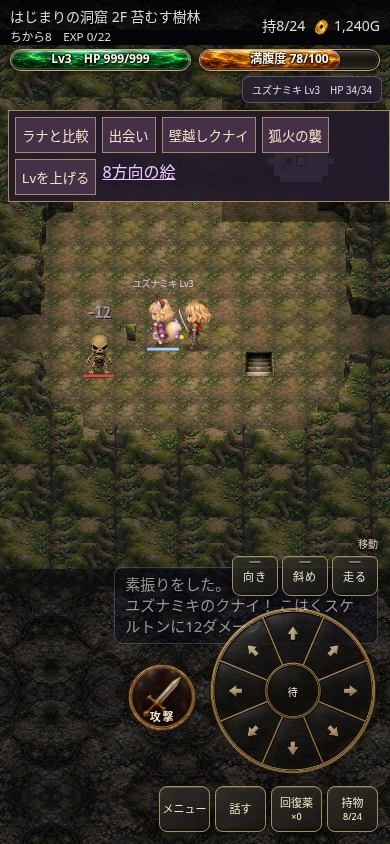
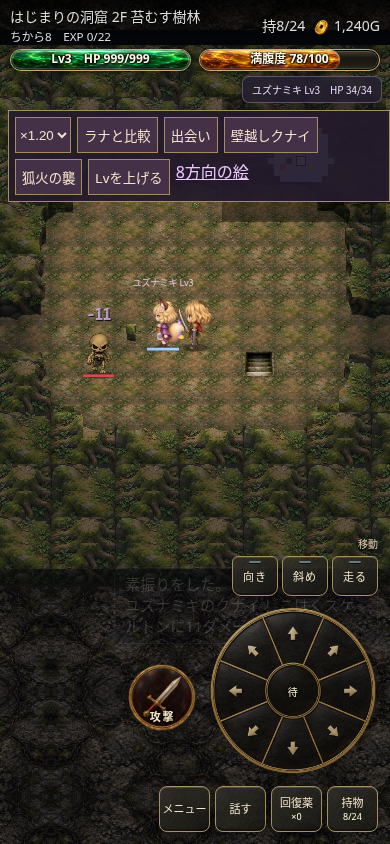
Register companion feet per pose and tune common scale to 1.20

diff --git a/fushigi-allies-v1/preview.html b/fushigi-allies-v1/preview.html
@@ -1,3 +1,3 @@
 <!doctype html><html lang="ja"><head><meta charset="utf-8"><meta name="viewport" content="width=device-width,initial-scale=1"><title>ユズナミキ — 助っ人</title><style>*{box-sizing:border-box}body{margin:0;color:#eee1d5;background:#18171e;font:15px/1.7 system-ui}main{max-width:1000px;margin:auto;padding:22px}h1{color:#e6c3ee;font-size:25px}a{color:#e7c68e}.lead{display:flex;gap:24px;align-items:center;flex-wrap:wrap}.lead img{width:210px;max-height:280px;object-fit:contain}button,select{background:#44334e;color:#fff0db;border:1px solid #ab8caf;padding:10px;font:inherit;border-radius:7px}#views{display:grid;grid-template-columns:repeat(4,minmax(0,1fr));gap:10px;margin-top:20px}figure{margin:0;text-align:center;border:1px solid #a482a644;border-radius:10px;background:radial-gradient(at 50% 70%,#54405b,#29242d 75%)}canvas{width:100%;height:auto}figcaption{color:#d9bddf}small{color:#b7aaba}@media(max-width:550px){#views{grid-template-columns:repeat(2,minmax(0,1fr))}}</style></head><body><main><a href="../">本編</a> ／ <a href="game-review.html">同行・戦闘を試す</a><h1>ユズナミキ <small>狐耳の忍び</small></h1><div class="lead"><img src="source-art/yuzunamiki-canonical.png" alt="白い着物・紫の羽織とクナイ姿のユズナミキ"><div><p>装備はクナイと着物で固定。<br>主人公の攻撃・守備と、自分のレベルで強くなる。</p><p>クナイ：直線2マスまで、障害物を越えて攻撃。<br>狐火の襲：戦闘中に確率で発動。本人だけ4ターン2回行動。</p><small>攻撃＝主人公＋2＋0.8×(Lv−1)<br>守備＝主人公−1＋⌊(Lv−1)/3⌋（最低0）</small></div></div><p><label>動作 <select id="action"><option value="idle">待機</option><option value="walk">歩行</option><option value="attack">クナイ</option></select></label> <button id="pause">一時停止</button></p><div id="views"></div><p id="status">画像を読み込み中…</p><small>8方向を個別に描画。クナイの持ち手と髪飾りのため左右反転なし。</small></main><script>
-const D=['S','SW','W','NW','N','NE','E','SE'],images={},cards=[];let stopped=false,last=0;for(const d of D){const el=document.createElement('figure');el.innerHTML='<figcaption>'+d+'</figcaption><canvas width="256" height="256"></canvas>';document.getElementById('views').append(el);cards.push({d,g:el.querySelector('canvas').getContext('2d')});}document.getElementById('pause').onclick=e=>{stopped=!stopped;e.target.textContent=stopped?'再生':'一時停止';};Promise.all(D.flatMap(d=>['.png','-motion.png'].map(s=>new Promise((resolve,reject)=>{const im=new Image();im.onload=()=>{images[d+s]=im;resolve();};im.onerror=reject;im.src='assets/'+d+s;})))).then(()=>{document.getElementById('status').textContent='待機・歩行・クナイの全24ポーズを読み込みました。';window.AllyArtReady=true;function frame(t){requestAnimationFrame(frame);if(stopped||t-last<70)return;last=t;const action=document.getElementById('action').value,phase=t%320;for(const {d,g}of cards){g.clearRect(0,0,256,256);const moving=action==='walk'?Math.floor(phase/80)%2===0:action==='attack'&&phase>=35&&phase<240;g.drawImage(images[d+(moving?'-motion.png':'.png')],moving&&action==='attack'?256:0,0,256,256,0,0,256,256);}}requestAnimationFrame(frame);}).catch(()=>document.getElementById('status').textContent='画像の読み込みに失敗しました。再読み込みしてください。');
+const D=['S','SW','W','NW','N','NE','E','SE'],images={},cards=[],registration={};let stopped=false,last=0;for(const d of D){const el=document.createElement('figure');el.innerHTML='<figcaption>'+d+'</figcaption><canvas width="320" height="320"></canvas>';document.getElementById('views').append(el);cards.push({d,g:el.querySelector('canvas').getContext('2d')});}document.getElementById('pause').onclick=e=>{stopped=!stopped;e.target.textContent=stopped?'再生':'一時停止';};Promise.all([fetch('ally.json?v=ground-v3').then(r=>r.json()).then(meta=>Object.assign(registration,meta.views)),...D.flatMap(d=>['.png','-motion.png'].map(s=>new Promise((resolve,reject)=>{const im=new Image();im.onload=()=>{images[d+s]=im;resolve();};im.onerror=reject;im.src='assets/'+d+s;})))]).then(()=>{document.getElementById('status').textContent='待機・歩行・クナイの全24ポーズを読み込みました。';window.AllyArtReady=true;function frame(t){requestAnimationFrame(frame);if(stopped||t-last<70)return;last=t;const action=document.getElementById('action').value,phase=t%320;for(const {d,g}of cards){g.clearRect(0,0,320,320);const moving=action==='walk'?Math.floor(phase/80)%2===0:action==='attack'&&phase>=35&&phase<240;const origin=registration[d].anchors[moving?action:'idle'],scale=1.2;g.drawImage(images[d+(moving?'-motion.png':'.png')],moving&&action==='attack'?256:0,0,256,256,160-origin[0]*scale,280-origin[1]*scale,256*scale,256*scale);}}requestAnimationFrame(frame);}).catch(()=>document.getElementById('status').textContent='画像の読み込みに失敗しました。再読み込みしてください。');
 </script></body></html>

diff --git a/assets/allies.js b/assets/allies.js
@@ -3,7 +3,7 @@
  const D=['S','SW','W','NW','N','NE','E','SE'];
  const src=typeof document!=='undefined'&&document.currentScript?.src;
  const base=src?new URL('../fushigi-allies-v1/',src).href:'fushigi-allies-v1/';
- const state={actor:null,used:false,open:false,renderScale:1.25,ready:false,error:null,images:{}};
+ const state={actor:null,used:false,open:false,renderScale:1.20,registration:{},ready:false,error:null,images:{}};
  const distance=(a,b)=>Math.max(Math.abs(a.x-b.x),Math.abs(a.y-b.y));
  const at=(x,y)=>state.actor?.x===x&&state.actor?.y===y?state.actor:null;
  const stats=a=>({attack:Math.max(1,Math.round(playerAtk()+2+(a.lv-1)*.8)-(a.poison||0)),defense:Math.max(0,defBonus()-1+Math.floor((a.lv-1)/3)),maxhp:26+4*(a.lv-1)});
@@ -64,14 +64,14 @@
   const choices=DIRS8.map(([dx,dy])=>({x:e.x+dx,y:e.y+dy,dx,dy})).filter(c=>inb(c.x,c.y)&&(T.ai==='ghost'||geomOK(e.x,e.y,c.dx,c.dy))&&!enemyAt(c.x,c.y)&&!at(c.x,c.y)&&!(player.x===c.x&&player.y===c.y)&&distance(c,a)<dist).sort((x,y)=>distance(x,a)-distance(y,a));
   if(choices.length){e.x=choices[0].x;e.y=choices[0].y;}return true;
  }
- async function load(redraw){try{const paths=D.flatMap(d=>[d+'.png',d+'-motion.png']);await Promise.all(paths.map(path=>new Promise((resolve,reject)=>{const im=new Image();im.onload=()=>{state.images[path]=im;resolve();};im.onerror=()=>reject(Error(path));im.src=base+'assets/'+path;})));state.ready=true;redraw();}catch(e){state.error=e.message;console.error('助っ人画像',e);redraw();}}
- function draw(g,a,t,camX,camY){const px=camX+a.vx*TS,py=camY+a.vy*tilePitchY(),s=TS*CHAR_K[charPref]*state.renderScale/192,x=px+TS/2,y=py+tilePitchY();
-  g.fillStyle='rgba(0,0,0,.3)';g.beginPath();g.ellipse(x,y-5,TS*.28,TS*.09,0,0,Math.PI*2);g.fill();
-  const attacking=a.attackStart!=null&&t-a.attackStart<300,walking=t<a.walkEnd,face=attacking?a.attackFace:a.face,d=MonsterSprites.direction(face||[0,1]);let image=state.images[d+'.png'],sx=0;
-  if(attacking&&t-a.attackStart>=35&&t-a.attackStart<240){image=state.images[d+'-motion.png'];sx=256;}else if(walking&&Math.floor((t-a.walkStart)/80)%2===0){image=state.images[d+'-motion.png'];}
+ async function load(redraw){try{const response=await fetch(base+'ally.json?v=ground-v3');if(!response.ok)throw Error('ally.json '+response.status);const metadata=await response.json();state.registration=metadata.views;const paths=D.flatMap(d=>[d+'.png',d+'-motion.png']);await Promise.all(paths.map(path=>new Promise((resolve,reject)=>{const im=new Image();im.onload=()=>{state.images[path]=im;resolve();};im.onerror=()=>reject(Error(path));im.src=base+'assets/'+path;})));state.ready=true;redraw();}catch(e){state.error=e.message;console.error('助っ人画像',e);redraw();}}
+ function draw(g,a,t,camX,camY){const px=camX+a.vx*TS,py=camY+a.vy*tilePitchY(),s=TS*CHAR_K[charPref]*state.renderScale/192,x=px+TS/2,y=py+tilePitchY()*.9;
+  g.fillStyle='rgba(0,0,0,.3)';g.beginPath();g.ellipse(x,y,TS*.28,TS*.09,0,0,Math.PI*2);g.fill();
+  const attacking=a.attackStart!=null&&t-a.attackStart<300,walking=t<a.walkEnd,face=attacking?a.attackFace:a.face,d=MonsterSprites.direction(face||[0,1]);let image=state.images[d+'.png'],sx=0,pose='idle';
+  if(attacking&&t-a.attackStart>=35&&t-a.attackStart<240){image=state.images[d+'-motion.png'];sx=256;pose='attack';}else if(walking&&Math.floor((t-a.walkStart)/80)%2===0){image=state.images[d+'-motion.png'];pose='walk';}
   if(a.boost>0||t-(a.castStart||-9999)<600){g.save();const r=TS*.6,glow=g.createRadialGradient(x,y-TS*.45,3,x,y-TS*.45,r);glow.addColorStop(0,'#b55bff55');glow.addColorStop(1,'#b55bff00');g.fillStyle=glow;g.fillRect(x-r,y-TS*.45-r,r*2,r*2);g.restore();}
-  if(image)g.drawImage(image,sx,0,256,256,x-128*s,y-224*s,256*s,256*s);
-  g.fillStyle='#16111f';g.fillRect(px,y-3,TS,3);g.fillStyle=a.following?'#a3d4ff':'#debfff';g.fillRect(px,y-3,TS*a.hp/a.maxhp,3);
+  if(image){const anchor=state.registration[d]?.anchors?.[pose]||[128,224];g.drawImage(image,sx,0,256,256,x-anchor[0]*s,y-anchor[1]*s,256*s,256*s);}
+  g.fillStyle='#16111f';g.fillRect(px,py+tilePitchY()-3,TS,3);g.fillStyle=a.following?'#a3d4ff':'#debfff';g.fillRect(px,py+tilePitchY()-3,TS*a.hp/a.maxhp,3);
   g.font=Math.max(9,Math.round(TS*.18))+'px sans-serif';g.textAlign='center';g.fillStyle='#f5d7ff';g.fillText(a.following?'ユズナミキ Lv'+a.lv:'ユズナミキ［話す］',x,y-192*s-4);
   return [px,py];
  }

diff --git a/fushigi-allies-v1/game-review.html b/fushigi-allies-v1/game-review.html
@@ -84,7 +84,7 @@ canvas{display:block;touch-action:none}
 <link rel="stylesheet" href="assets/control-skin.css?v=brass-v1">
 <link rel="stylesheet" href="assets/compass-ui.css?v=lacquer-v3">
 <link rel="stylesheet" href="assets/gem-bars.css?v=gem-v1">
-<style>#reviewTools{display:none}#allyReviewTools{position:fixed;z-index:9;left:8px;top:110px;background:#231b2bed;border:1px solid #a58b62;padding:6px;display:flex;gap:6px;flex-wrap:wrap;max-width:95vw}#allyReviewTools button{min-height:36px;color:#f4e3c8;background:#443047;border:1px solid #a58b62}body.menu-visible #allyReviewTools{display:none}@media(orientation:landscape){#allyReviewTools{top:46px}}</style></head>
+<style>#reviewTools{display:none}#allyReviewTools{position:fixed;z-index:9;left:8px;top:110px;background:#231b2bed;border:1px solid #a58b62;padding:6px;display:flex;gap:6px;flex-wrap:wrap;max-width:95vw}#allyReviewTools button,#allyReviewTools select{min-height:36px;color:#f4e3c8;background:#443047;border:1px solid #a58b62}body.menu-visible #allyReviewTools{display:none}@media(orientation:landscape){#allyReviewTools{top:46px}}</style></head>
 <body>
 <div id="hud"><span id="where"></span><span id="bagc"></span><div id="bars"><div class="bar"><i id="hpf"></i><b id="hp"></b></div><div class="bar bl" id="blbar"><i id="blf"></i><b id="belly"></b></div></div></div>
 <div id="log"></div>
@@ -150,7 +150,7 @@ canvas{display:block;touch-action:none}
 <script src="assets/cave-terrain.js?v=wall-relief-v1"></script>
 <script src="fushigi-monsters-v1/monsters-renderer.js?v=motions-v1"></script>
 <link rel="stylesheet" href="assets/allies.css?v=yuzunamiki-v1">
-<script src="assets/allies.js?v=yuzunamiki-size-v2"></script>
+<script src="assets/allies.js?v=yuzunamiki-ground-v3"></script>
 <script src="assets/monster-roster.js?v=families-v2"></script>
 <script src="assets/monster-families.js?v=families-v2"></script>
 <script src="assets/dungeon-experience.js?v=experience-v1"></script>
@@ -2510,5 +2510,5 @@ if (typeof Image !== 'undefined') { ApprovedHero.load(render); HeroActions.load(
 <script src="assets/controls-ui.js?v=yuzunamiki-v1"></script>
 <script src="assets/ergonomic-ui.js?v=hands-v1"></script>
 <script>AllySystem.init();</script>
-<script src="fushigi-experience-v1/review-tools.js"></script><script src="fushigi-allies-v1/stage.js"></script></body>
+<script src="fushigi-experience-v1/review-tools.js"></script><script src="fushigi-allies-v1/stage.js?v=ground-v3"></script></body>
 </html>

diff --git a/fushigi-allies-v1/stage.js b/fushigi-allies-v1/stage.js
@@ -1,5 +1,5 @@
 (()=>{
- const tools=document.createElement('div');tools.id='allyReviewTools';tools.innerHTML='<button id="allySize">ラナと比較</button><button id="allyMeet">出会い</button><button id="allyWall">壁越しクナイ</button><button id="allyHaste">狐火の襲</button><button id="allyLevel">Lvを上げる</button><a href="fushigi-allies-v1/preview.html" style="color:#edc8ff">8方向の絵</a>';document.body.append(tools);
+ const tools=document.createElement('div');tools.id='allyReviewTools';tools.innerHTML='<select id="allyScale" aria-label="助っ人の表示倍率"><option value="1.17">×1.17</option><option value="1.2" selected>×1.20</option><option value="1.25">×1.25</option></select><button id="allySize">ラナと比較</button><button id="allyMeet">出会い</button><button id="allyWall">壁越しクナイ</button><button id="allyHaste">狐火の襲</button><button id="allyLevel">Lvを上げる</button><a href="fushigi-allies-v1/preview.html" style="color:#edc8ff">8方向の絵</a>';document.body.append(tools);
  function setup(mode='meet'){
   AllySystem.reset();ExperienceReview.setup('room');floorItems=[];traps=[];player.x=player.vx=12;player.y=player.vy=10;player.face=[-1,0];player.hp=player.maxhp=999;
   const a=AllySystem.make(11,10);AllySystem.state.actor=a;a.lv=3;a.maxhp=a.hp=34;
@@ -7,6 +7,7 @@
   else if(mode!=='meet'){a.following=true;AllySystem.state.used=true;const hp=999;enemies=[{kind:'skeleton_2',x:9,y:10,vx:9,vy:10,hp,maxhp:hp,aware:true,st:{},flash:0}];if(mode==='wall')map[10][10]=WALL;if(mode==='haste'){a.boost=4;a.cooldown=12;a.castStart=now();}}
   window.AllyReview={setup};updateVis();render();
  }
+ document.getElementById('allyScale').onchange=e=>{AllySystem.state.renderScale=Number(e.target.value);render();};
  document.getElementById('allySize').onclick=()=>setup('size');
  document.getElementById('allyMeet').onclick=()=>setup('meet');document.getElementById('allyWall').onclick=()=>setup('wall');document.getElementById('allyHaste').onclick=()=>setup('haste');document.getElementById('allyLevel').onclick=()=>{if(!AllySystem.state.actor?.following)setup('haste');AllySystem.gainExp(expNeed(AllySystem.state.actor.lv));render();};
  const wait=setInterval(()=>{if(window.ExperienceReview&&ApprovedHero.ready&&CaveTerrain.ready&&DungeonExperience.ready&&MonsterSprites.ready&&AllySystem.state.ready){clearInterval(wait);setup(new URLSearchParams(location.search).has('size')?'size':'meet');}},100);

diff --git a/index.html b/index.html
@@ -149,7 +149,7 @@ canvas{display:block;touch-action:none}
 <script src="assets/cave-terrain.js?v=wall-relief-v1"></script>
 <script src="fushigi-monsters-v1/monsters-renderer.js?v=motions-v1"></script>
 <link rel="stylesheet" href="assets/allies.css?v=yuzunamiki-v1">
-<script src="assets/allies.js?v=yuzunamiki-size-v2"></script>
+<script src="assets/allies.js?v=yuzunamiki-ground-v3"></script>
 <script src="assets/monster-roster.js?v=families-v2"></script>
 <script src="assets/monster-families.js?v=families-v2"></script>
 <script src="assets/dungeon-experience.js?v=experience-v1"></script>

diff --git a/fushigi-allies-v1/check_registration.py b/fushigi-allies-v1/check_registration.py
@@ -1,0 +1,23 @@
+from pathlib import Path
+import base64,json
+from playwright.sync_api import sync_playwright
+P=Path(__file__).resolve().parent
+with sync_playwright() as p:
+ b=p.chromium.launch(executable_path='/usr/bin/chromium',args=['--no-sandbox']);results=[]
+ for label,w,h in [('landscape',844,390),('portrait',390,844)]:
+  page=b.new_page(viewport={'width':w,'height':h});errors=[];page.on('pageerror',lambda e:errors.append(str(e)))
+  page.goto('http://127.0.0.1:8000/fushigi-allies-v1/game-review.html?size=1');page.wait_for_function('window.AllyReview && AllySystem.state.ready',timeout=120000)
+  assert page.evaluate('AllySystem.state.renderScale===1.2 && Object.keys(AllySystem.state.registration).length===8')
+  for scale in ['1.17','1.2','1.25']:
+   page.locator('#allyScale').select_option(scale);assert page.evaluate('AllySystem.state.renderScale')==float(scale)
+   page.screenshot(path=str(P/f'size-{scale.replace(".","")}-{label}.png'))
+  page.locator('#allyScale').select_option('1.2');page.screenshot(path=str(P/f'size-{label}.png'))
+  if label=='landscape':
+   result=page.evaluate('''()=>{const oldTS=TS,oldChar=charPref;TS=128;charPref=0;const c=document.createElement('canvas');c.width=1536;c.height=768;const g=c.getContext('2d');g.fillStyle='#272330';g.fillRect(0,0,c.width,c.height);const D=['S','SW','W','NW','N','NE','E','SE'],faces=[[0,1],[-1,1],[-1,0],[-1,-1],[0,-1],[1,-1],[1,0],[1,1]];
+   for(let row=0;row<3;row++)for(let i=0;i<8;i++){const x=i*192+96,y=row*256+224,face=faces[i],a={...AllySystem.state.actor,x:0,y:0,vx:0,vy:0,face,attackFace:face,attackStart:row===2?0:null,walkStart:0,walkEnd:row===1?1000:0,boost:0,castStart:null};
+   g.fillStyle='#e6c5ea';g.font='12px sans-serif';g.textAlign='left';g.fillText(D[i]+' '+['idle','walk','attack'][row],i*192+6,row*256+16);AllySystem.draw(g,a,row===2?120:40,x-TS/2,y-tilePitchY()*.9);g.strokeStyle='#72c9ab';g.lineWidth=1;g.beginPath();g.moveTo(x-24,y);g.lineTo(x+24,y);g.moveTo(x,y-8);g.lineTo(x,y+8);g.stroke();}TS=oldTS;charPref=oldChar;return c.toDataURL();}''')
+   (P/'registration-contact.png').write_bytes(base64.b64decode(result.split(',')[1]))
+  assert not errors,errors;results.append({'viewport':label,'scales':[1.17,1.20,1.25],'directions':8,'registeredPoses':24,'errors':errors});page.close()
+ b.close()
+(P/'registration-validation.json').write_text(json.dumps(results,indent=2)+'\n')
+print('ALL OK: 24 registered poses, common ground and three selectable scales in two viewports')

diff --git a/fushigi-allies-v1/build_review.py b/fushigi-allies-v1/build_review.py
@@ -1,5 +1,5 @@
 from pathlib import Path
 P=Path(__file__).resolve().parent
 s=(P.parent/'index.html').read_text().replace('<head>','<head>\n<base href="../">',1).replace("const SAVE_KEY = 'fushigi_core_save_v1';","const SAVE_KEY = 'fushigi_yuzunamiki_review_v1';")
-s=s.replace('</head>','<style>#reviewTools{display:none}#allyReviewTools{position:fixed;z-index:9;left:8px;top:110px;background:#231b2bed;border:1px solid #a58b62;padding:6px;display:flex;gap:6px;flex-wrap:wrap;max-width:95vw}#allyReviewTools button{min-height:36px;color:#f4e3c8;background:#443047;border:1px solid #a58b62}body.menu-visible #allyReviewTools{display:none}@media(orientation:landscape){#allyReviewTools{top:46px}}</style></head>').replace('</body>','<script src="fushigi-experience-v1/review-tools.js"></script><script src="fushigi-allies-v1/stage.js"></script></body>')
+s=s.replace('</head>','<style>#reviewTools{display:none}#allyReviewTools{position:fixed;z-index:9;left:8px;top:110px;background:#231b2bed;border:1px solid #a58b62;padding:6px;display:flex;gap:6px;flex-wrap:wrap;max-width:95vw}#allyReviewTools button,#allyReviewTools select{min-height:36px;color:#f4e3c8;background:#443047;border:1px solid #a58b62}body.menu-visible #allyReviewTools{display:none}@media(orientation:landscape){#allyReviewTools{top:46px}}</style></head>').replace('</body>','<script src="fushigi-experience-v1/review-tools.js"></script><script src="fushigi-allies-v1/stage.js?v=ground-v3"></script></body>')
 (P/'game-review.html').write_text(s)

diff --git a/fushigi-allies-v1/build.py b/fushigi-allies-v1/build.py
@@ -25,6 +25,17 @@ for i,d in enumerate(m.D):
  frames[0].save(P/'assets'/f'{d}.png');views[d]={'idle':f'assets/{d}.png'}
  if motion:
   atlas=Image.new('RGBA',(512,256));atlas.alpha_composite(frames[1],(0,0));atlas.alpha_composite(frames[2],(256,0));atlas.save(P/'assets'/f'{d}-motion.png');views[d]['motion']=f'assets/{d}-motion.png'
+# Ground contact is based on the boot band, not the tail/kunai silhouette.
+# Store explicit translations for every painted pose; never warp the artwork.
+for d in m.D:
+ atlas=Image.open(P/'assets'/f'{d}-motion.png')
+ poses={'idle':Image.open(P/'assets'/f'{d}.png'),'walk':atlas.crop((0,0,256,256)),'attack':atlas.crop((256,0,512,256))}
+ anchors={};bands={}
+ for action,frame in poses.items():
+  alpha=frame.getchannel('A').point(lambda a:255 if a>=100 else 0);box=alpha.getbbox();top=box[3]-24;band=alpha.crop((0,top,256,box[3])).getbbox()
+  anchors[action]=[(band[0]+band[2])/2,box[3]-8]
+  bands[action]=[band[0],top+band[1],band[2],top+band[3]]
+ views[d]['anchors']=anchors;views[d]['bootBands']=bands
 meta={'name':'ユズナミキ','origin':[128,224],'scale':scale,'motionSourceScale':mu,'fixedSWSourceScale':unit,'mirroring':False,'views':views,'sha256':{str(f.relative_to(P)):hashlib.sha256(f.read_bytes()).hexdigest() for f in (P/'assets').glob('*.png')}}
 (P/'ally.json').write_text(json.dumps(meta,ensure_ascii=False,indent=2)+'\n')
 sheet=Image.new('RGBA',(2048,256))

diff --git a/docs/SPRITE_PRODUCTION_HANDOVER.md b/docs/SPRITE_PRODUCTION_HANDOVER.md
@@ -1,5 +1,10 @@
 # 承認済みキャラクター・武器・盾の制作引き継ぎ
 
+## 最新：ユズナミキの足元・1.20倍への微調整（2026-10-21）
+
+ユーザーが立ち位置のズレを指摘し、1.2／1.17程度の制御を希望。尻尾・クナイ込みの画像中心と足元の差が原因と分かり、方向・動作別の足元アンカーを `fushigi-allies-v1/ally.json` に追加。描画位置と影をラナと同じ地面基準へ合わせ、共通倍率は1.25→1.20へ変更。タイル座標・当たり判定・原画・24ポーズPNGは未変更。再生成なし。比較画面では1.17／1.20／1.25を選択できる。本編は1.20。24ポーズの接地点比較と縦横3倍率、通常36項目を検証・目視確認。以下の1.25は前の状態。
+
+
 ## ユズナミキの表示サイズ補正（2026-10-21）
 
 ユーザーから「ラナより小さい／頭身がおかしい？ 描き直しなら先に教えて」と指摘。比較で、耳の先まで含めた高さ基準により体が小さくなっていると判明。原画の再生成はせず、描画倍率を全方向・全動作で1.25倍に補正。描き直しが必要になれば先にユーザーへ伝える。`fushigi-allies-v1/game-review.html?size=1` にラナとの比較配置を用意。

diff --git a/docs/HANDOVER.md b/docs/HANDOVER.md
@@ -1,5 +1,10 @@
 # 引き継ぎ資料（Fushigi：シレン風・個人用）
 
+## 最新：ユズナミキの足元・1.20倍への微調整（2026-10-21）
+
+ユーザーが立ち位置のズレを指摘し、1.2／1.17程度の制御を希望。尻尾・クナイ込みの画像中心と足元の差が原因と分かり、方向・動作別の足元アンカーを `fushigi-allies-v1/ally.json` に追加。描画位置と影をラナと同じ地面基準へ合わせ、共通倍率は1.25→1.20へ変更。タイル座標・当たり判定・原画・24ポーズPNGは未変更。再生成なし。比較画面では1.17／1.20／1.25を選択できる。本編は1.20。24ポーズの接地点比較と縦横3倍率、通常36項目を検証・目視確認。以下の1.25は前の状態。
+
+
 ## ユズナミキの表示サイズ補正（2026-10-21）
 
 ユーザーから「ラナより小さい／頭身がおかしい？ 描き直しなら先に教えて」と指摘。比較で、耳の先まで含めた高さ基準により体が小さくなっていると判明。原画の再生成はせず、描画倍率を全方向・全動作で1.25倍に補正。描き直しが必要になれば先にユーザーへ伝える。`fushigi-allies-v1/game-review.html?size=1` にラナとの比較配置を用意。
